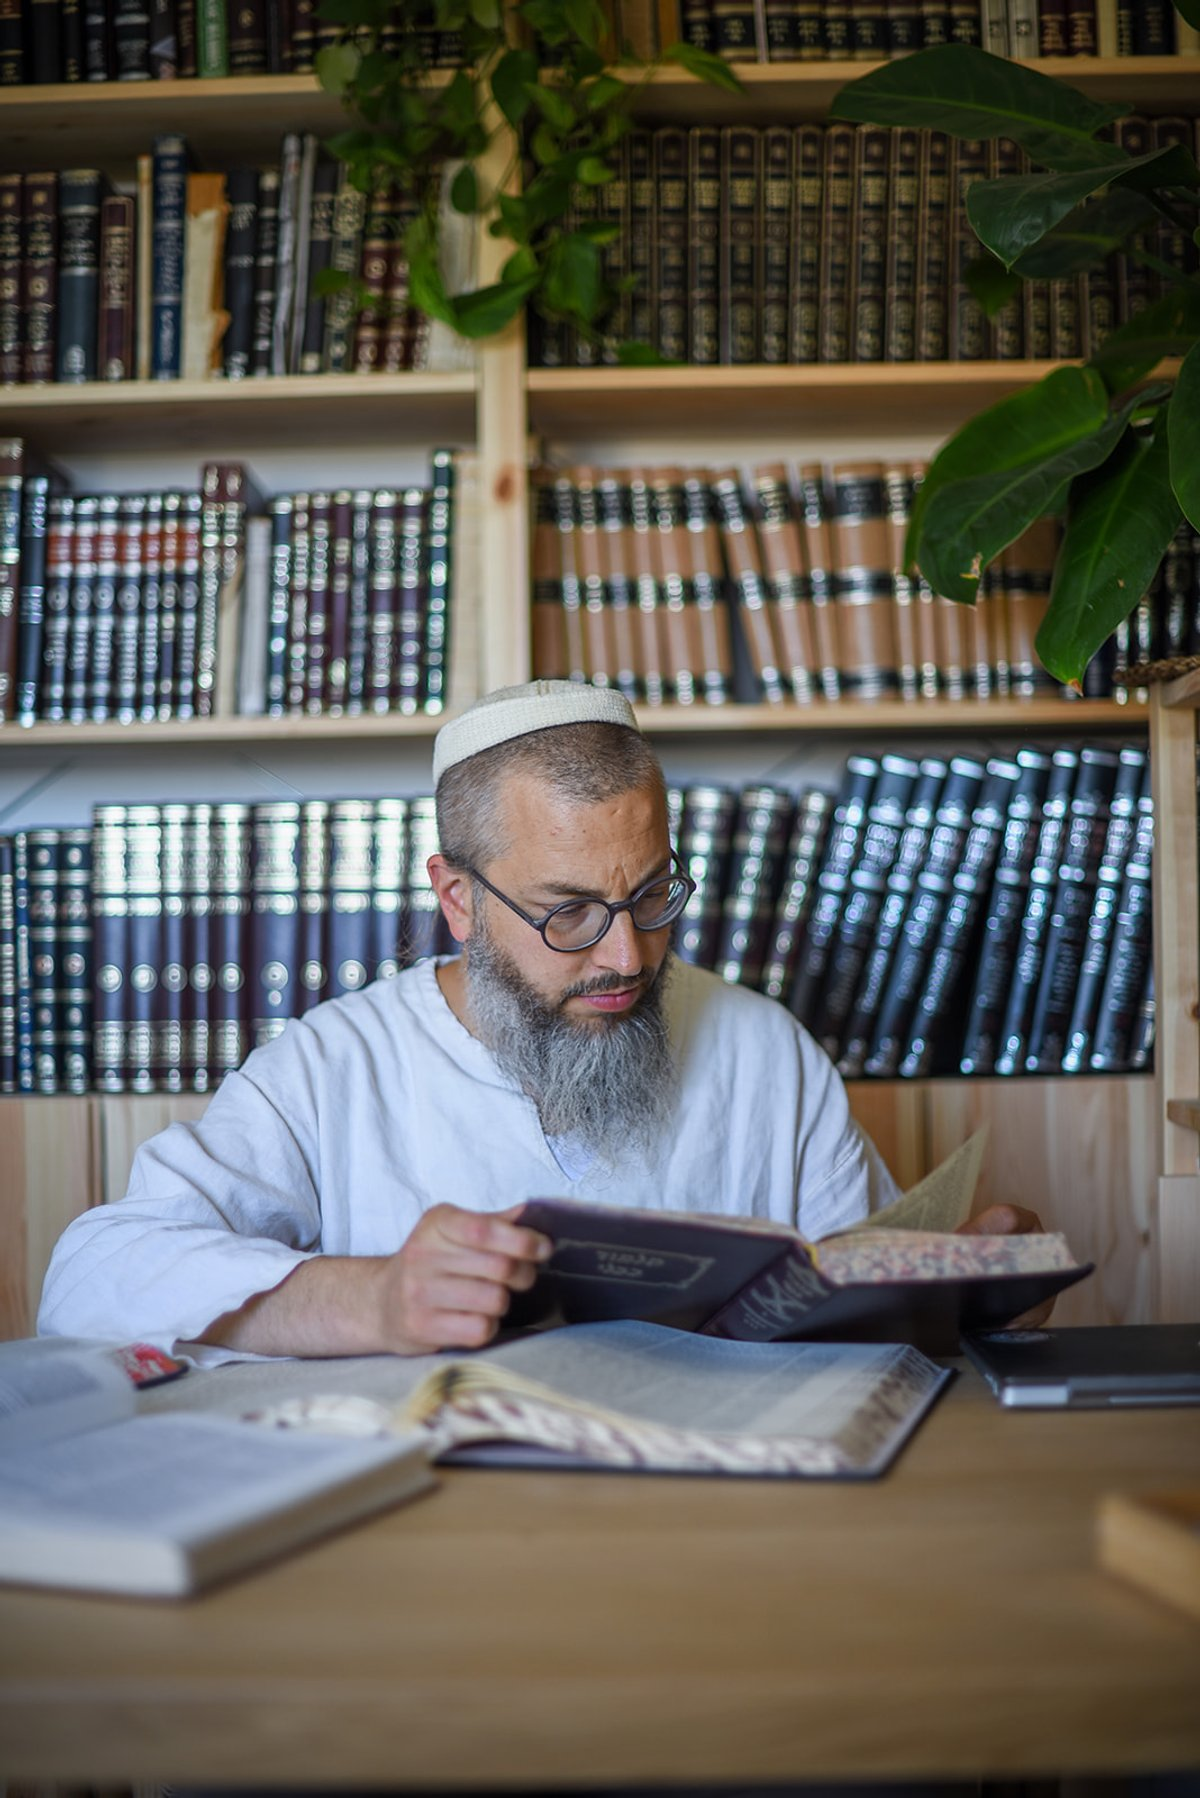
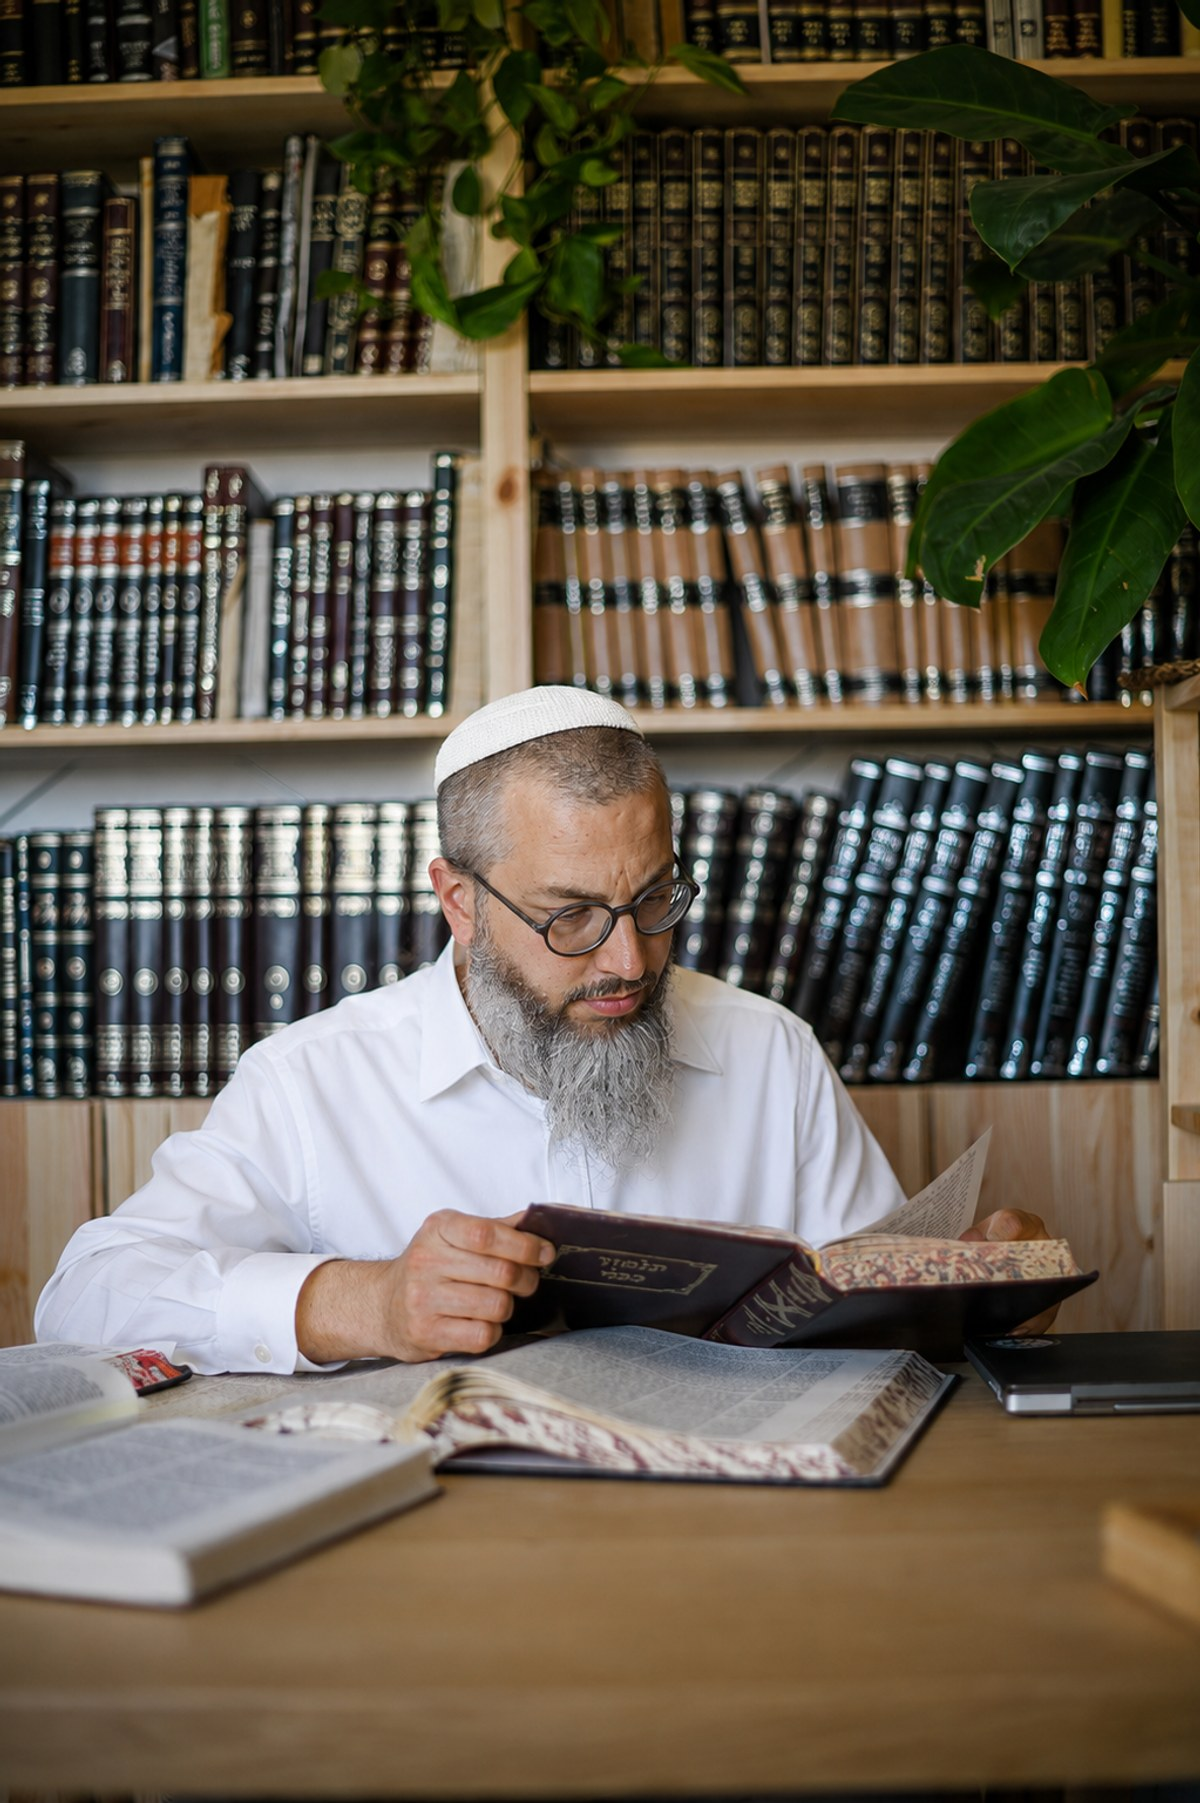
About page: photo fix, credentials, and float-layout corrections
Credentials: fix Talelei Shevi'i topic to hilchos shabbos (not
shviis), capitalize every item so each reads as its own line rather
than a lowercase continuation, and keep the "wrote sections of"
emphasis on the Oz VeHadar contribution.

Layout: after feedback that the float section looked broken (image
starting 56px below the text made it look like the words ran off
above the photo), reverted to text and image starting at the same
top, at the original 18px paragraph size. Moved "That question has
guided every stage of my life" out of the floated text entirely —
it's now its own centered line beneath the photo once the float
clears, keeping the larger italic accent-colored treatment.

Photo: swapped in chat's kippah/shirt-corrected version of the
study-desk photo (same treatment as the Aron Kodesh portrait) —
normal white kippah, pressed white collared shirt, room unchanged.

diff --git a/src/data/content.js b/src/data/content.js
@@ -252,13 +252,14 @@ export const about = {
       type: "credentials",
       lead: "Over the years I have:",
       items: [
-        "studied in many of Israel’s leading yeshivos and kollelim",
-        "served on the Beis Din of Rabbi Vind",
-        "contributed to the Oz VeHadar Shulchan Aruch HaMevoar project",
-        "taught full-time in Yeshiva Gedolah",
-        "served as a Ram in Yeshivas Mir, where I led an international Yiddish Chaburah",
-        "continued teaching in Yeshivat Bat Ayin",
-        "and later founded my own yeshiva, where I served as Rosh Yeshiva",
+        "Studied in many of Israel’s leading yeshivos and kollelim",
+        "Served on the Beis Din of Rabbi Vind",
+        "Helped write and edit Talelei Tohar on hilchos nida, and Talelei Shevi’i on hilchos shabbos",
+        "Wrote sections of the Oz VeHadar Shulchan Aruch HaMevoar on hilchos nida",
+        "Taught full-time in Yeshiva Gedolah",
+        "Served as a Ram in Yeshivas Mir, where I led an international Yiddish Chaburah",
+        "Continued teaching in Yeshivat Bat Ayin",
+        "And later founded my own yeshiva, where I served as Rosh Yeshiva",
       ],
       closing:
         "Today I have the privilege of serving as the rabbi of Kehilat Chaverim in Jerusalem.",
